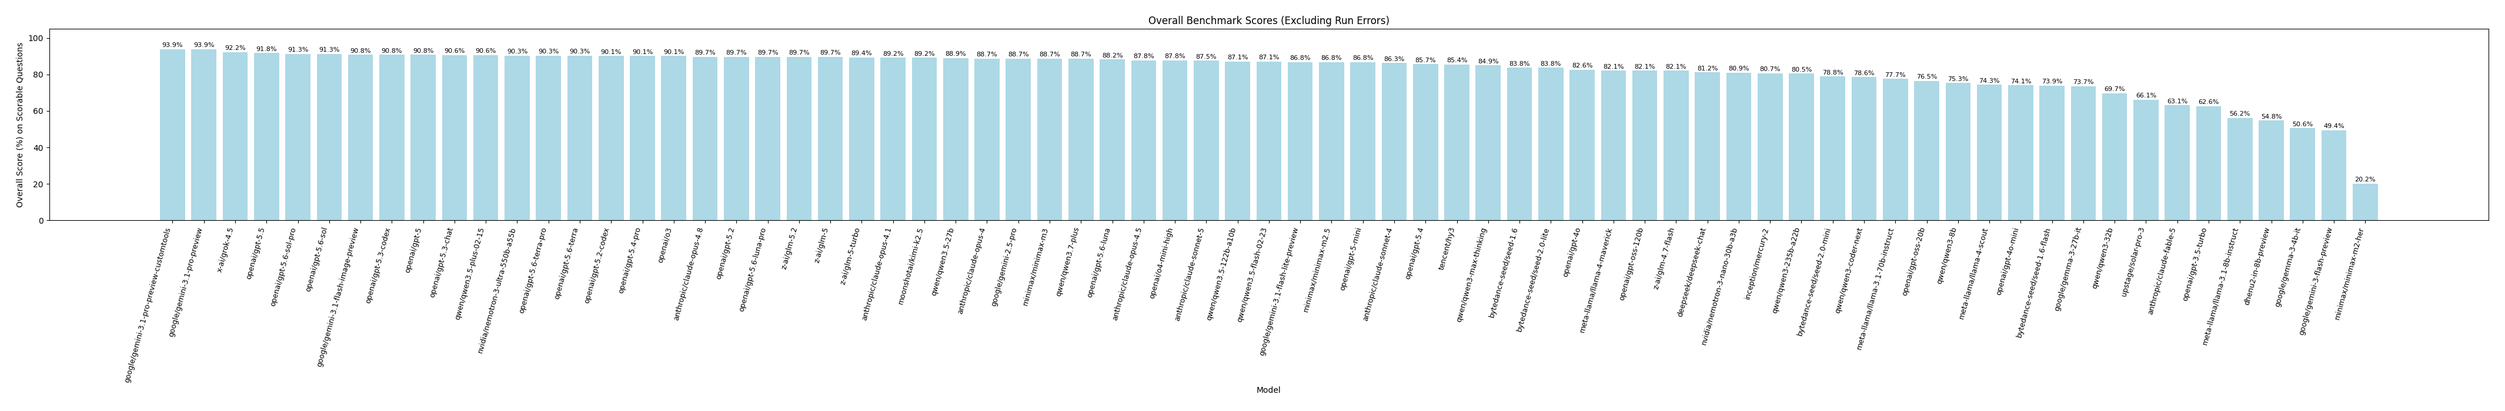
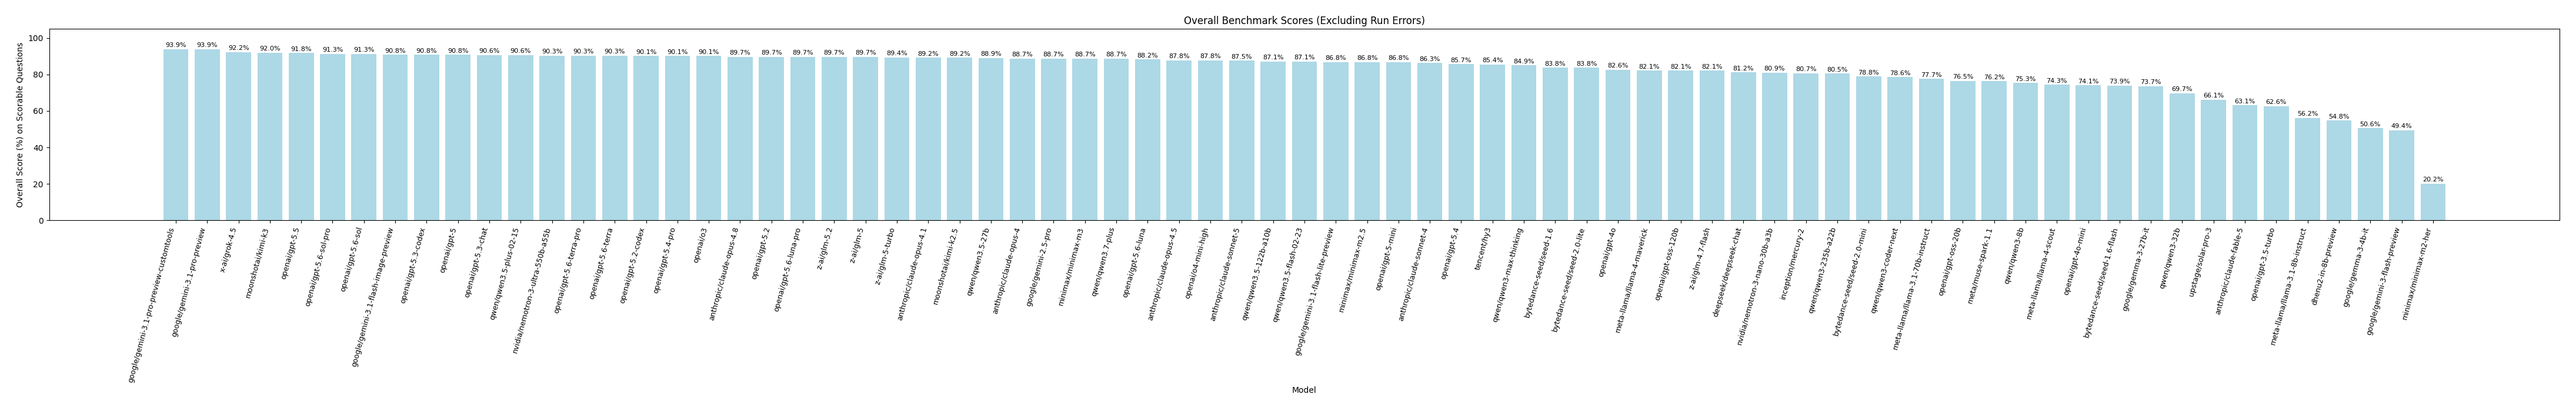
Add Kimi K3 and Muse Spark 1.1 benchmark results
Wire both models into the runner with quantization routing, content-policy
refusal handling, and 402 billing abort, then publish their leaderboard rows
and measured usage.

Changed region(s): [[0.0624, 0.09, 0.9366, 0.84], [0.4371, 0.03, 0.562, 0.06]]

diff --git a/llm_api_calls.py b/llm_api_calls.py
@@ -208,9 +208,41 @@ async def _call_openai_sdk(client: AsyncOpenAI,
         if e.status_code == 429:
             sync_tqdm.write(f"\nError ({model_id}): Rate Limit Exceeded - Status 429.")
             return RATE_LIMIT_SENTINEL
+        error_text = ""
+        try:
+            error_text = (e.response.text if e.response is not None else "") or str(e)
+        except Exception:
+            error_text = str(e)
+        error_text_l = error_text.lower()
+        # Billing / quota exhaustion is fatal for the whole model run. Treating
+        # 402 as a transient API error causes infinite requeue loops.
+        if e.status_code == 402 or "payment required" in error_text_l:
+            sync_tqdm.write(
+                f"\nError ({model_id}): Payment Required (HTTP 402). "
+                f"Top up OpenRouter credits before resuming. Detail: {error_text[:300]}"
+            )
+            return FATAL_API_ERROR_SENTINEL
+        # Per-prompt moderation/content-policy 400s (e.g. Meta Muse) are terminal
+        # for that question only — not a reason to abort the whole model run.
+        if e.status_code == 400 and any(
+            marker in error_text_l
+            for marker in (
+                "content_policy",
+                "content management policy",
+                "content_filter",
+                "moderation",
+                "safety",
+            )
+        ):
+            sync_tqdm.write(
+                f"\nNotice ({model_id}): Provider content policy blocked prompt "
+                f"(HTTP 400). Scoring as refusal."
+            )
+            return REFUSAL_SENTINEL
         if e.status_code in {400, 401, 403, 404}:
             sync_tqdm.write(
-                f"\nError ({model_id}): Non-retryable API Error - Status {e.status_code}."
+                f"\nError ({model_id}): Non-retryable API Error - Status {e.status_code}. "
+                f"Detail: {error_text[:300]}"
             )
             return FATAL_API_ERROR_SENTINEL
         sync_tqdm.write(

diff --git a/config.py b/config.py
@@ -121,6 +121,28 @@ MODELS_TO_RUN = [
     # ========== LATEST SOTA (July 2026) ==========
 
     {
+        "id": "moonshotai/kimi-k3",
+        "provider": "openai_compatible",
+        "api_key_env": "OPENROUTER_API_KEY",
+        "base_url": "https://openrouter.ai/api/v1",
+        "model_name_api": "moonshotai/kimi-k3",
+        # Open-weight multimodal reasoning model (OpenRouter currently only exposes INT4).
+        "access": "open source",
+        "max_tokens": 4000,
+    },
+    {
+        "id": "meta/muse-spark-1.1",
+        "provider": "openai_compatible",
+        "api_key_env": "OPENROUTER_API_KEY",
+        "base_url": "https://openrouter.ai/api/v1",
+        "model_name_api": "meta/muse-spark-1.1",
+        "access": "proprietary",
+        "max_tokens": 4000,
+        # Prefill causes the model to echo "Correct answer_options key: X"
+        # instead of a bare letter; disable for cleaner single-letter answers.
+        "assistant_prompt": None,
+    },
+    {
         "id": "openai/gpt-5.6-luna-pro",
         "provider": "openai_compatible",
         "api_key_env": "OPENROUTER_API_KEY",

diff --git a/openrouter_catalog.py b/openrouter_catalog.py
@@ -153,6 +153,7 @@ def _infer_access_type(model_data: dict) -> str:
     model_id = model_data.get("id", "")
     raw_hugging_face_id = model_data.get("hugging_face_id")
     hugging_face_id = raw_hugging_face_id.strip() if isinstance(raw_hugging_face_id, str) else ""
+    description = str(model_data.get("description", "")).lower()
 
     if any(model_id.startswith(prefix) for prefix in _OPEN_SOURCE_PREFIXES):
         return "open source"
@@ -160,7 +161,15 @@ def _infer_access_type(model_data: dict) -> str:
     if hugging_face_id:
         return "open source"
 
+    # Some open-weight releases (e.g. moonshotai/kimi-k3) land before a HF id is listed.
+    if "open-weight" in description or "open weight" in description:
+        return "open source"
+
     if any(model_id.startswith(prefix) for prefix in _PROPRIETARY_PREFIXES):
+        return "proprietary"
+
+    # meta/* API-only models without HF ids are treated as proprietary.
+    if model_id.startswith("meta/"):
         return "proprietary"
 
     return "unknown"

diff --git a/benchmark_runner.py b/benchmark_runner.py
@@ -46,7 +46,12 @@ def parse_model_response(raw_response):
     """Cleans raw model output to extract a single-letter answer (a-z)."""
     if not raw_response or not isinstance(raw_response, str): return "fail"
     cleaned = raw_response.strip(' "\'*`\t\n')
-    cleaned = re.sub(r"^(the correct answer is|answer is|correct answer:|answer:|key:)\s*", "", cleaned, flags=re.IGNORECASE).strip()
+    cleaned = re.sub(
+        r"^(the correct answer is|answer is|correct answer(?:_options)?(?: key)?:|answer:|key:)\s*",
+        "",
+        cleaned,
+        flags=re.IGNORECASE,
+    ).strip()
     match = re.match(r"^\s*([a-zA-Z])(?:[.)\s]|\b|$)", cleaned)
     if match: return match.group(1).lower()
     if len(cleaned) == 1 and cleaned.isalpha(): return cleaned.lower()

diff --git a/README.md b/README.md
@@ -19,6 +19,7 @@
 | google/gemini-3.1-pro-preview-customtools |         93.88% | Proprietary | 2026-07-09  |    $12.0000    |                   92.0% |           94.1% |         72.0% |      68.0% |      82.0% |               95.3% |           95.2% |          95.0% |                  91.4% | (399/425)
 | google/gemini-3.1-pro-preview             |         93.88% | Proprietary | 2026-07-09  |    $12.0000    |                   96.0% |           94.1% |         72.0% |      66.0% |      84.0% |               95.3% |           93.5% |          93.8% |                  92.4% | (399/425)
 | x-ai/grok-4.5                             |         92.24% | Proprietary | 2026-07-09  |    $6.0000     |                   92.0% |           94.1% |         54.0% |      62.0% |      76.0% |               92.9% |           90.3% |          96.2% |                  88.6% | (392/425)
+| moonshotai/kimi-k3                        |         92.00% | Open Source | 2026-07-16  |    $15.0000    |                   96.0% |           92.7% |         62.0% |      66.0% |      80.0% |               91.8% |           90.3% |          92.5% |                  91.4% | (391/425)
 | openai/gpt-5.5                            |         91.76% | Proprietary | 2026-07-09  |    $30.0000    |                   92.0% |           91.2% |         58.0% |      60.0% |      74.0% |               95.3% |           91.9% |          95.0% |                  86.7% | (390/425)
 | openai/gpt-5.6-sol-pro                    |         91.29% | Proprietary | 2026-07-09  |    $30.0000    |                   96.0% |           92.7% |         66.0% |      62.0% |      70.0% |               94.1% |           87.1% |          93.8% |                  87.6% | (388/425)
 | openai/gpt-5.6-sol                        |         91.29% | Proprietary | 2026-07-09  |    $30.0000    |                   92.0% |           92.7% |         66.0% |      58.0% |      66.0% |               95.3% |           87.1% |          92.5% |                  88.6% | (388/425)
@@ -27,7 +28,7 @@
 | openai/gpt-5                              |         90.82% | Proprietary | 2026-07-10  |    $10.0000    |                   88.0% |           91.2% |         68.0% |      68.0% |      72.0% |               92.9% |           88.7% |          92.5% |                  89.5% | (386/425)
 | openai/gpt-5.3-chat                       |         90.59% | Proprietary | 2026-07-09  |    $14.0000    |                   88.0% |           92.7% |         64.0% |      56.0% |      56.0% |               94.1% |           88.7% |          91.2% |                  87.6% | (385/425)
 | qwen/qwen3.5-plus-02-15                   |         90.59% | Open Source | 2026-07-09  |    $1.5600     |                   80.0% |           91.2% |         64.0% |      52.0% |      74.0% |               94.1% |           93.5% |          91.2% |                  87.6% | (385/425)
-| nvidia/nemotron-3-ultra-550b-a55b         |         90.35% | Open Source | 2026-07-09  |    $2.2000     |                   92.0% |           91.2% |      N/A      |    N/A     |    N/A     |               91.8% |           88.7% |          90.0% |                  89.5% | (384/425)
+| nvidia/nemotron-3-ultra-550b-a55b         |         90.35% | Open Source | 2026-07-09  |    $3.6000     |                   92.0% |           91.2% |      N/A      |    N/A     |    N/A     |               91.8% |           88.7% |          90.0% |                  89.5% | (384/425)
 | openai/gpt-5.6-terra-pro                  |         90.35% | Proprietary | 2026-07-09  |    $15.0000    |                   92.0% |           89.7% |         58.0% |      56.0% |      70.0% |               91.8% |           90.3% |          95.0% |                  85.7% | (384/425)
 | openai/gpt-5.6-terra                      |         90.35% | Proprietary | 2026-07-09  |    $15.0000    |                   84.0% |           94.1% |         56.0% |      62.0% |      68.0% |               92.9% |           91.9% |          92.5% |                  84.8% | (384/425)
 | openai/gpt-5.2-codex                      |         90.12% | Proprietary | 2026-07-09  |    $14.0000    |                   92.0% |           92.7% |         62.0% |      52.0% |      68.0% |               92.9% |           87.1% |          92.5% |                  85.7% | (383/425)
@@ -36,11 +37,11 @@
 | anthropic/claude-opus-4.8                 |         89.65% | Proprietary | 2026-07-09  |    $25.0000    |                   88.0% |           88.2% |         68.0% |      56.0% |      66.0% |               91.8% |           85.5% |          95.0% |                  87.6% | (381/425)
 | openai/gpt-5.2                            |         89.65% | Proprietary | 2026-07-09  |    $14.0000    |                   88.0% |           92.7% |         62.0% |      56.0% |      76.0% |               94.1% |           87.1% |          92.5% |                  83.8% | (381/425)
 | openai/gpt-5.6-luna-pro                   |         89.65% | Proprietary | 2026-07-09  |    $6.0000     |                   80.0% |           92.7% |         62.0% |      60.0% |      74.0% |               92.9% |           87.1% |          93.8% |                  85.7% | (381/425)
-| z-ai/glm-5.2                              |         89.65% | Open Source | 2026-07-10  |    $2.4200     |                   84.0% |           91.2% |      N/A      |    N/A     |    N/A     |               91.8% |           88.7% |          91.2% |                  87.6% | (381/425)
-| z-ai/glm-5                                |         89.65% | Open Source | 2026-07-10  |    $1.9200     |                   96.0% |           89.7% |      N/A      |    N/A     |    N/A     |               90.6% |           90.3% |          91.2% |                  85.7% | (381/425)
+| z-ai/glm-5.2                              |         89.65% | Open Source | 2026-07-10  |    $2.8908     |                   84.0% |           91.2% |      N/A      |    N/A     |    N/A     |               91.8% |           88.7% |          91.2% |                  87.6% | (381/425)
+| z-ai/glm-5                                |         89.65% | Open Source | 2026-07-10  |    $3.1500     |                   96.0% |           89.7% |      N/A      |    N/A     |    N/A     |               90.6% |           90.3% |          91.2% |                  85.7% | (381/425)
 | z-ai/glm-5-turbo                          |         89.41% | Proprietary | 2026-07-10  |    $4.0000     |                   84.0% |           92.7% |      N/A      |    N/A     |    N/A     |               90.6% |           88.7% |          91.2% |                  86.7% | (380/425)
 | anthropic/claude-opus-4.1                 |         89.18% | Proprietary | 2026-07-09  |    $75.0000    |                   84.0% |           88.2% |         54.0% |      56.0% |      46.0% |               91.8% |           91.9% |          91.2% |                  85.7% | (379/425)
-| moonshotai/kimi-k2.5                      |         89.18% | Open Source | 2026-07-09  |    $2.0250     |                   84.0% |           91.2% |         68.0% |      64.0% |      70.0% |               90.6% |           90.3% |          90.0% |                  86.7% | (379/425)
+| moonshotai/kimi-k2.5                      |         89.18% | Open Source | 2026-07-09  |    $2.8500     |                   84.0% |           91.2% |         68.0% |      64.0% |      70.0% |               90.6% |           90.3% |          90.0% |                  86.7% | (379/425)
 | qwen/qwen3.5-27b                          |         88.94% | Open Source | 2026-07-10  |    $1.5600     |                   80.0% |           91.2% |         60.0% |      44.0% |      36.0% |               89.4% |           88.7% |          91.2% |                  87.6% | (378/425)
 | anthropic/claude-opus-4                   |         88.71% | Proprietary | 2026-07-09  |    $75.0000    |                   84.0% |           89.7% |         48.0% |      56.0% |      48.0% |               89.4% |           90.3% |          91.2% |                  85.7% | (377/425)
 | google/gemini-2.5-pro                     |         88.71% | Proprietary | 2026-07-09  |    $10.0000    |                   84.0% |           91.2% |         60.0% |      68.0% |      80.0% |               87.1% |           88.7% |          91.2% |                  87.6% | (377/425)
@@ -57,13 +58,13 @@
 | openai/gpt-5-mini                         |         86.82% | Proprietary | 2026-07-10  |    $2.0000     |                   60.0% |           91.2% |         68.0% |      44.0% |      58.0% |               90.6% |           88.7% |          90.0% |                  83.8% | (369/425)
 | anthropic/claude-sonnet-4                 |         86.35% | Proprietary | 2026-07-09  |    $15.0000    |                   80.0% |           86.8% |         44.0% |      54.0% |      28.0% |               88.2% |           88.7% |          87.5% |                  83.8% | (367/425)
 | openai/gpt-5.4                            |         85.65% | Proprietary | 2026-07-09  |    $15.0000    |                   76.0% |           86.8% |         60.0% |      62.0% |      52.0% |               87.1% |           83.9% |          87.5% |                  85.7% | (364/425)
-| tencent/hy3                               |         85.41% | Open Source | 2026-07-10  |    $0.5800     |                   64.0% |           88.2% |      N/A      |    N/A     |    N/A     |               88.2% |           83.9% |          91.2% |                  82.9% | (363/425)
+| tencent/hy3                               |         85.41% | Open Source | 2026-07-10  |    $0.8000     |                   64.0% |           88.2% |      N/A      |    N/A     |    N/A     |               88.2% |           83.9% |          91.2% |                  82.9% | (363/425)
 | qwen/qwen3-max-thinking                   |         84.94% | Open Source | 2026-07-09  |    $3.9000     |                   60.0% |           86.8% |      N/A      |    N/A     |    N/A     |               83.5% |           83.9% |          87.5% |                  89.5% | (361/425)
 | bytedance-seed/seed-1.6                   |         83.76% | Proprietary | 2026-07-09  |    $2.0000     |                   68.0% |           86.8% |         68.0% |      56.0% |      68.0% |               82.3% |           83.9% |          85.0% |                  85.7% | (356/425)
 | bytedance-seed/seed-2.0-lite              |         83.76% | Proprietary | 2026-07-09  |    $2.0000     |                   68.0% |           83.8% |         50.0% |      58.0% |      62.0% |               83.5% |           83.9% |          90.0% |                  82.9% | (356/425)
 | openai/gpt-4o                             |         82.59% | Proprietary | 2026-07-09  |    $10.0000    |                   80.0% |           82.3% |         50.0% |      40.0% |      32.0% |               80.0% |           87.1% |          87.5% |                  79.0% | (351/425)
-| meta-llama/llama-4-maverick               |         82.12% | Open Source | 2026-07-09  |    $0.6000     |                   60.0% |           82.3% |         50.0% |      56.0% |      36.0% |               81.2% |           87.1% |          81.2% |                  85.7% | (349/425)
-| openai/gpt-oss-120b                       |         82.12% | Open Source | 2026-07-09  |    $0.1800     |                   52.0% |           86.8% |      N/A      |    N/A     |    N/A     |               82.3% |           87.1% |          85.0% |                  81.0% | (349/425)
+| meta-llama/llama-4-maverick               |         82.12% | Open Source | 2026-07-09  |    $0.8000     |                   60.0% |           82.3% |         50.0% |      56.0% |      36.0% |               81.2% |           87.1% |          81.2% |                  85.7% | (349/425)
+| openai/gpt-oss-120b                       |         82.12% | Open Source | 2026-07-09  |    $0.1700     |                   52.0% |           86.8% |      N/A      |    N/A     |    N/A     |               82.3% |           87.1% |          85.0% |                  81.0% | (349/425)
 | z-ai/glm-4.7-flash                        |         82.12% | Open Source | 2026-07-10  |    $0.4000     |                   56.0% |           77.9% |      N/A      |    N/A     |    N/A     |               83.5% |           85.5% |          86.2% |                  84.8% | (349/425)
 | deepseek/deepseek-chat                    |         81.18% | Open Source | 2026-07-09  |    $0.8001     |                   60.0% |           82.3% |      N/A      |    N/A     |    N/A     |               81.2% |           83.9% |          83.8% |                  81.9% | (345/425)
 | nvidia/nemotron-3-nano-30b-a3b            |         80.94% | Open Source | 2026-07-09  |    $0.2000     |                   56.0% |           83.8% |      N/A      |    N/A     |    N/A     |               81.2% |           83.9% |          86.2% |                  79.0% | (344/425)
@@ -72,17 +73,18 @@
 | bytedance-seed/seed-2.0-mini              |         78.82% | Proprietary | 2026-07-09  |    $0.4000     |                   64.0% |           83.8% |         60.0% |      64.0% |      64.0% |               74.1% |           80.7% |          83.8% |                  78.1% | (335/425)
 | qwen/qwen3-coder-next                     |         78.59% | Open Source | 2026-07-09  |    $0.8000     |                   48.0% |           82.3% |      N/A      |    N/A     |    N/A     |               76.5% |           85.5% |          83.8% |                  77.1% | (334/425)
 | meta-llama/llama-3.1-70b-instruct         |         77.65% | Open Source | 2026-07-09  |    $0.4000     |                   64.0% |           80.9% |      N/A      |    N/A     |    N/A     |               74.1% |           82.3% |          80.0% |                  77.1% | (330/425)
-| openai/gpt-oss-20b                        |         76.47% | Open Source | 2026-07-09  |    $0.1400     |                   36.0% |           85.3% |      N/A      |    N/A     |    N/A     |               75.3% |           83.9% |          81.2% |                  73.3% | (325/425)
+| openai/gpt-oss-20b                        |         76.47% | Open Source | 2026-07-09  |    $0.1300     |                   36.0% |           85.3% |      N/A      |    N/A     |    N/A     |               75.3% |           83.9% |          81.2% |                  73.3% | (325/425)
+| meta/muse-spark-1.1                       |         76.24% | Proprietary | 2026-07-16  |    $4.2500     |                   84.0% |           72.1% |         54.0% |      56.0% |      68.0% |               82.3% |           58.1% |          86.2% |                  75.2% | (324/425)
 | qwen/qwen3-8b                             |         75.29% | Open Source | 2026-07-10  |    $0.4550     |                   44.0% |           79.4% |      N/A      |    N/A     |    N/A     |               72.9% |           79.0% |          81.2% |                  75.2% | (320/425)
 | meta-llama/llama-4-scout                  |         74.35% | Open Source | 2026-07-09  |    $0.3000     |                   68.0% |           72.1% |         38.0% |      46.0% |      32.0% |               71.8% |           72.6% |          82.5% |                  74.3% | (316/425)
 | openai/gpt-4o-mini                        |         74.12% | Proprietary | 2026-07-09  |    $0.6000     |                   56.0% |           75.0% |         48.0% |      40.0% |      30.0% |               65.9% |           75.8% |          86.2% |                  74.3% | (315/425)
 | bytedance-seed/seed-1.6-flash             |         73.88% | Proprietary | 2026-07-09  |    $0.3000     |                   40.0% |           75.0% |         60.0% |      64.0% |      60.0% |               74.1% |           79.0% |          77.5% |                  75.2% | (314/425)
-| google/gemma-3-27b-it                     |         73.65% | Open Source | 2026-07-09  |    $0.1600     |                   48.0% |           75.0% |         48.0% |      42.0% |      40.0% |               72.9% |           82.3% |          75.0% |                  73.3% | (313/425)
+| google/gemma-3-27b-it                     |         73.65% | Open Source | 2026-07-09  |    $0.4500     |                   48.0% |           75.0% |         48.0% |      42.0% |      40.0% |               72.9% |           82.3% |          75.0% |                  73.3% | (313/425)
 | qwen/qwen3-32b                            |         69.65% | Open Source | 2026-07-09  |    $0.2800     |                   44.0% |           70.6% |      N/A      |    N/A     |    N/A     |               67.1% |           72.6% |          76.2% |                  70.5% | (296/425)
 | upstage/solar-pro-3                       |         66.12% | Proprietary | 2026-07-09  |    $0.6000     |                   48.0% |           63.2% |      N/A      |    N/A     |    N/A     |               62.4% |           67.7% |          72.5% |                  69.5% | (281/425)
 | anthropic/claude-fable-5                  |         63.06% | Proprietary | 2026-07-09  |    $50.0000    |                   88.0% |           57.4% |      N/A      |    N/A     |    N/A     |               74.1% |           35.5% |          85.0% |                  51.4% | (268/425)
 | openai/gpt-3.5-turbo                      |         62.59% | Proprietary | 2026-07-09  |    $1.5000     |                   48.0% |           63.2% |      N/A      |    N/A     |    N/A     |               56.5% |           72.6% |          63.8% |                  63.8% | (266/425)
-| meta-llama/llama-3.1-8b-instruct          |         56.24% | Open Source | 2026-07-09  |    $0.0300     |                   36.0% |           57.4% |      N/A      |    N/A     |    N/A     |               54.1% |           67.7% |          56.2% |                  55.2% | (239/425)
+| meta-llama/llama-3.1-8b-instruct          |         56.24% | Open Source | 2026-07-09  |    $0.0800     |                   36.0% |           57.4% |      N/A      |    N/A     |    N/A     |               54.1% |           67.7% |          56.2% |                  55.2% | (239/425)
 | dhenu2-in-8b-preview                      |         54.82% | Open Source | 2026-07-09  |      N/A       |                   36.0% |           57.4% |      N/A      |    N/A     |    N/A     |               56.5% |           66.1% |          56.2% |                  48.6% | (233/425)
 | google/gemma-3-4b-it                      |         50.59% | Open Source | 2026-07-09  |    $0.1000     |                   28.0% |           58.8% |         32.0% |      36.0% |      32.0% |               45.9% |           62.9% |          48.8% |                  48.6% | (215/425)
 | google/gemini-3-flash-preview             |         49.41% | Proprietary | 2026-07-09  |    $3.0000     |                   52.0% |           42.6% |         72.0% |      68.0% |      92.0% |               49.4% |           50.0% |          60.0% |                  44.8% | (210/425)
